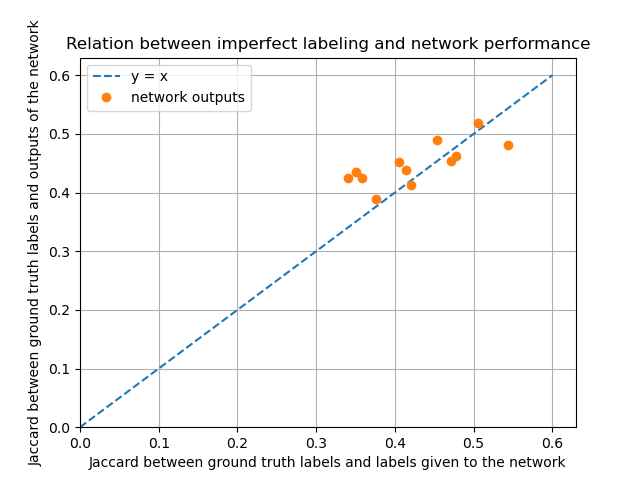
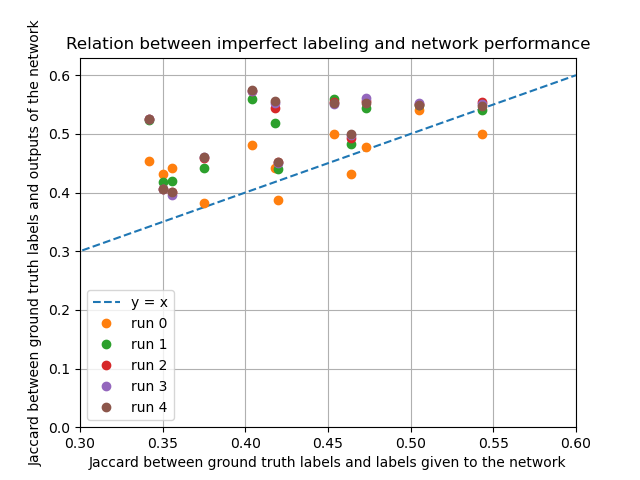
removing 0.5 and 2.5 standard deviations, adding graph_mean.png

diff --git a/graph.py b/graph.py
@@ -47,13 +47,16 @@ if train_type == 'oubli':
 	data_2 = np.array(data_2)
 	data_3 = np.array(data_3)
 
-elif train_type == 'deplace':
+elif train_type == 'deplace' or 'mean':
 	for line in jaccard_log:
 		line = line.split(' ')
 		if(line[2] == 'test'):
-			jaccard_data.append([(float(line[-4])-1.0)*100/5, int(line[-2]), float(line[-1])])
+			if(train_type == 'deplace'):
+				jaccard_data.append([(float(line[-4])-1.0)*100/5, int(line[-2]), float(line[-1])])
+			elif(train_type == 'mean'):
+				jaccard_data.append([(float(line[-7])-4.0)*3+float(line[-5])/0.5-2, int(line[-3]), float(line[-1])])
 	data = np.array(jaccard_data)
-
+	print(data)
 	data_0 = []
 	data_1 = []
 	data_2 = []
@@ -79,7 +82,7 @@ elif train_type == 'deplace':
 	data_3 = np.array(data_3)
 	data_4 = np.array(data_4)
 
-elif train_type == 'taille' or train_type == 'mean':
+elif train_type == 'taille':
 	for line in jaccard_log:
 		jaccard_data.append(float(line.split(' ')[-1]))
 	data = np.array([distortion_data,jaccard_data])
@@ -109,9 +112,17 @@ elif train_type == 'taille':
 	plt.ylim(0)
 elif train_type == 'mean':
 	plt.plot([0,0.6],[0,0.6],'--', label='y = x')
-	plt.plot(data[0,:],data[1,:],'o',label='network outputs')
-	plt.xlim(0)
+	plt.plot(data_0[:,0],data_0[:,1],'o',label='run 0')
+	plt.plot(data_1[:,0],data_1[:,1],'o',label='run 1')
+	plt.plot(data_2[:,0],data_2[:,1],'o',label='run 2')
+	plt.plot(data_3[:,0],data_3[:,1],'o',label='run 3')
+	plt.plot(data_4[:,0],data_4[:,1],'o',label='run 4')
+	plt.xlim(0.3,0.6)
 	plt.ylim(0)
+	#plt.plot([0,0.6],[0,0.6],'--', label='y = x')
+	#plt.plot(data[0,:],data[1,:],'o',label='network outputs')
+	#plt.xlim(0)
+	#plt.ylim(0)
 plt.xlabel('Jaccard between ground truth labels and labels given to the network')
 plt.ylabel('Jaccard between ground truth labels and outputs of the network')
 plt.title('Relation between imperfect labeling and network performance')
